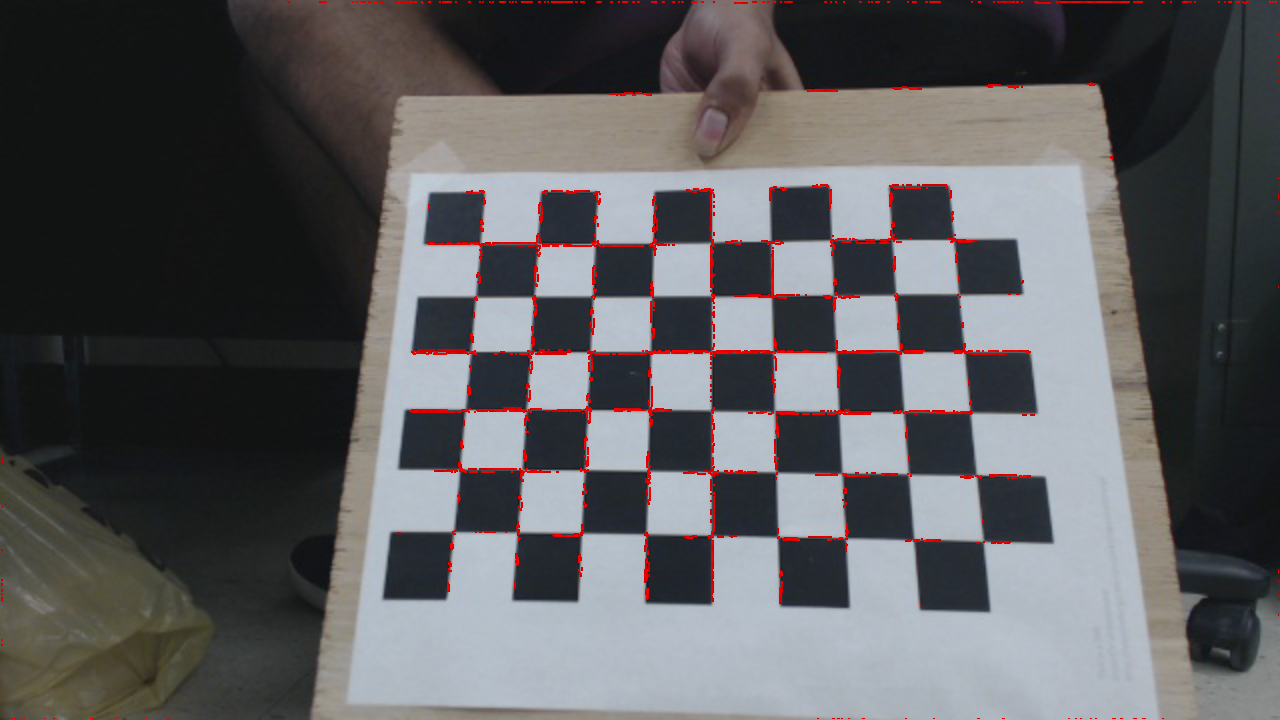
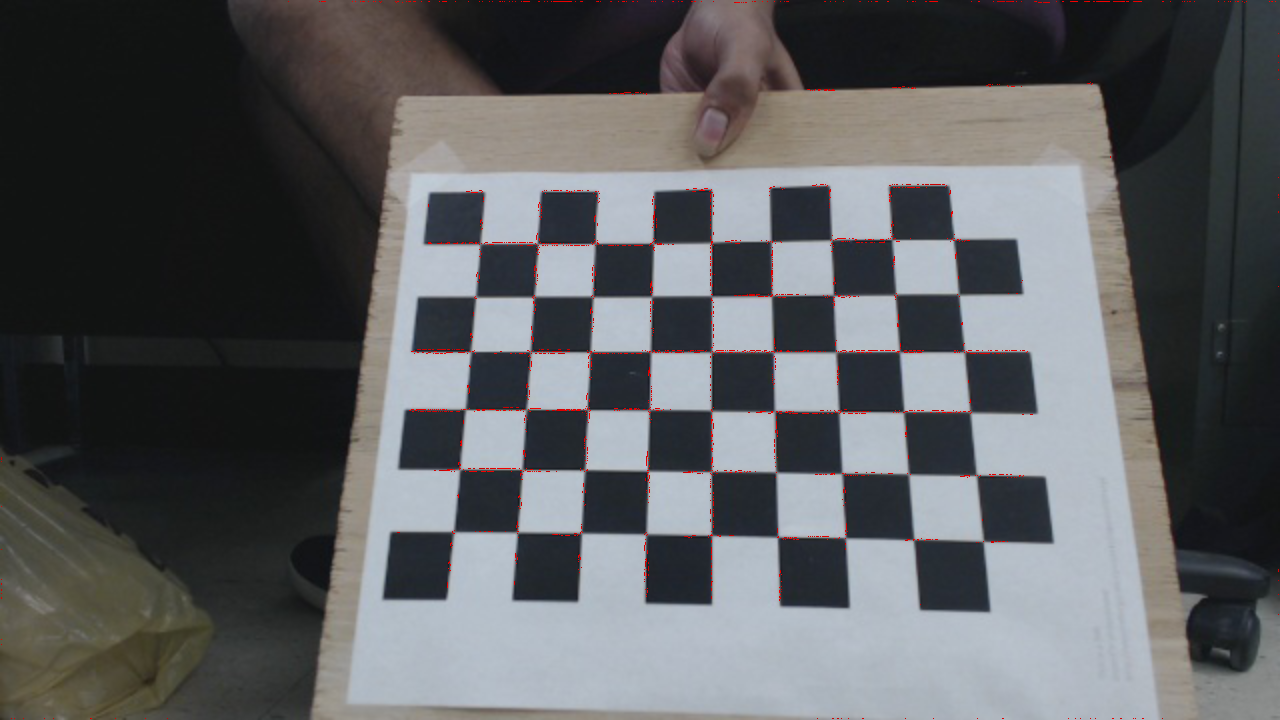
Tweaks parameters

diff --git a/paper.py b/paper.py
@@ -66,11 +66,11 @@ def _lc_max(im, ksize):
     for i in range(ksize // 2, im.shape[0] - ksize // 2):
         if i % 100 == 0: print(".", end="")
         for j in range(ksize // 2, im.shape[1] - ksize // 2):
-            output[i, j] = np.max(im[i - ksize // 2:i + ksize // 2, j - ksize // 2:j + ksize // 2])
-            #if im[i, j] != max:
-            #    output[i, j] = 0  # non maximal suppression
-            #else:
-            #    output[i, j] = max
+            max = np.max(im[i - ksize // 2:i + ksize // 2, j - ksize // 2:j + ksize // 2])
+            if im[i, j] != max:
+                output[i, j] = 0  # non maximal suppression
+            else:
+                output[i, j] = max
     print("finished!")
     cv.imwrite('src/frep_max.png', output.astype('uint8'))
     return output.astype('uint8')
